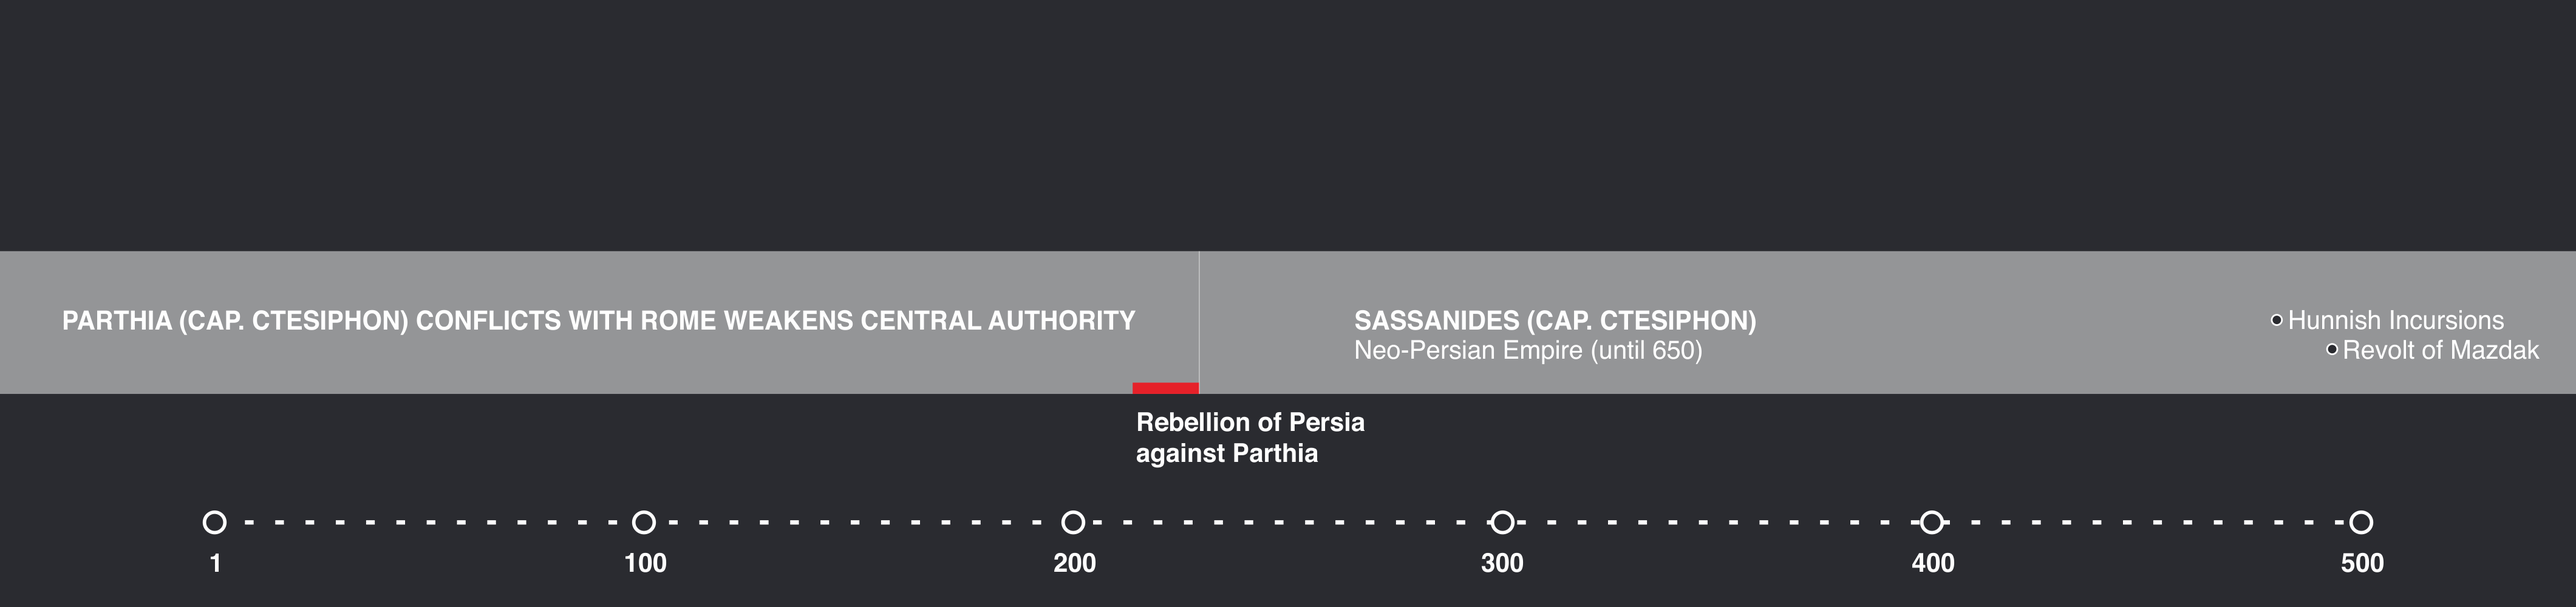
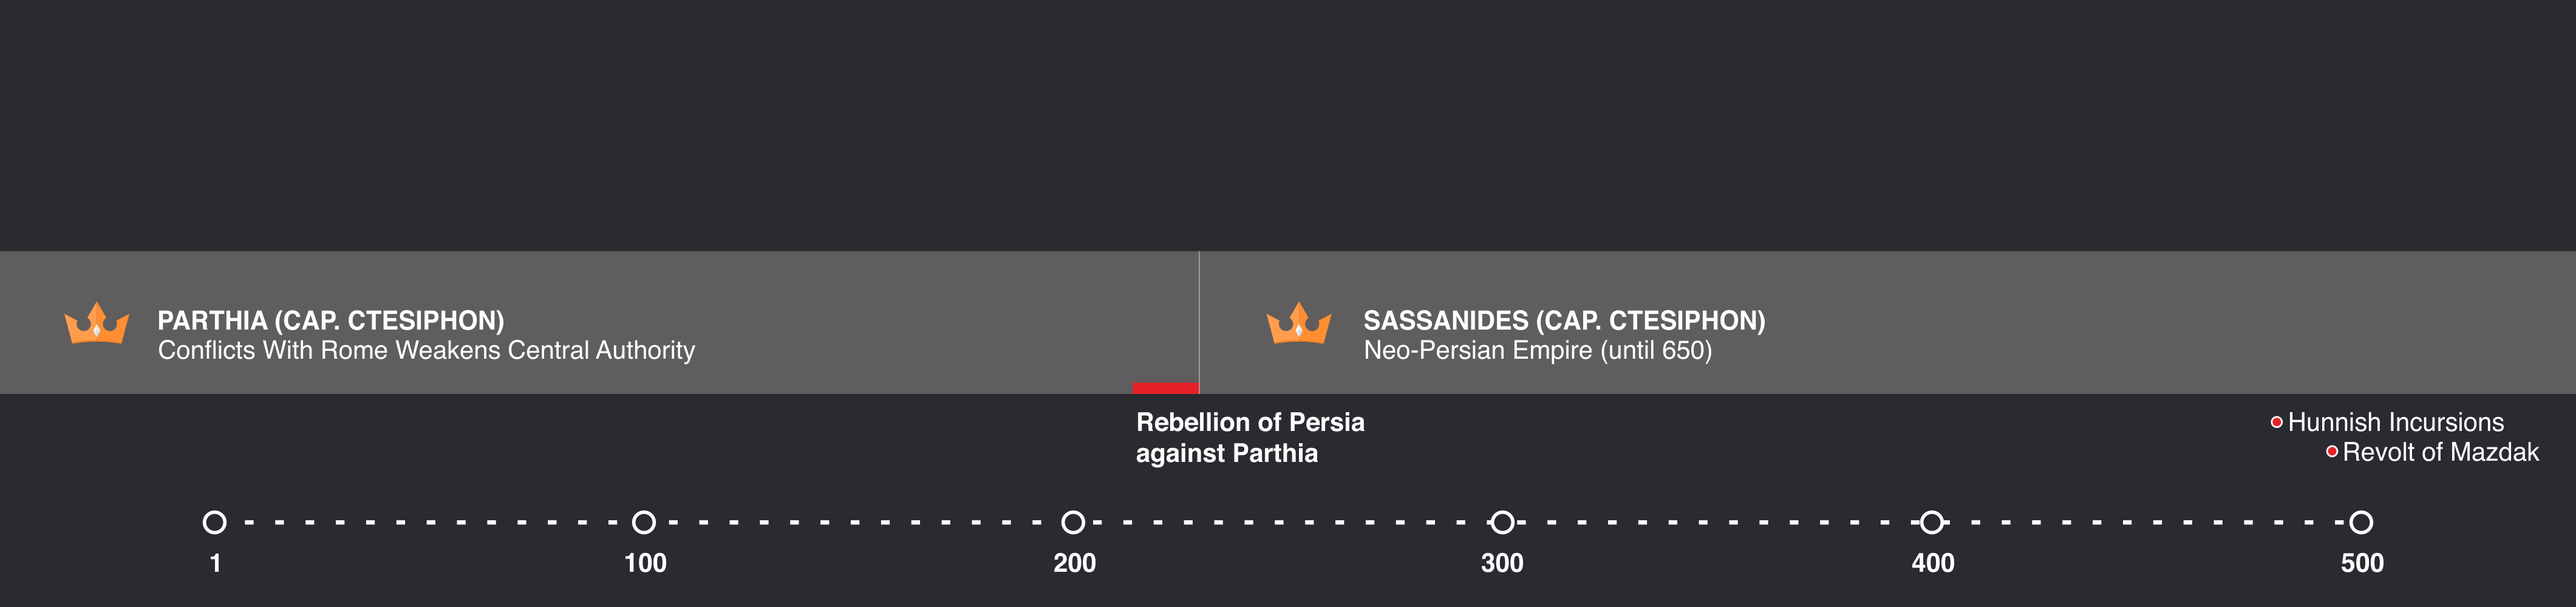
faridiot

Changed region(s): [[0.0, 0.403, 1.0, 0.651], [0.8713, 0.682, 0.9958, 0.775]]

diff --git a/index.html b/index.html
@@ -45,7 +45,7 @@
 					<div class="product__info">
 						<img class="product__image" src="images/1.png" alt="Product 1" />
 						<h3 class="product__title">Europe</h3>
-						<span class="product__year extra highlight">2011</span>
+						<span class="product__year extra highlight">1 - 500 Period</span>
 						<span class="product__region extra highlight">Douro</span>
 						<span class="product__varietal extra highlight">Touriga Nacional</span>
 						<span class="product__alcohol extra highlight">13%</span>
@@ -59,11 +59,11 @@
 					<div class="product__info">
 						<img class="product__image" src="images/2.png" alt="Product 2" />
 						<h3 class="product__title">Midle east</h3>
-						<span class="product__year extra highlight">2013</span>
-						<span class="product__region extra highlight">California</span>
-						<span class="product__varietal extra highlight">Pinot Noir</span>
-						<span class="product__alcohol extra highlight">12%</span>
-						<span class="product__price highlight">$19.90</span>
+						<span class="product__year extra highlight">1 - 500 Period</span>
+						<span class="product__region extra highlight">Parthia</span>
+						<span class="product__varietal extra highlight">Sassanides</span>
+						<span class="product__alcohol extra highlight">Caliphates</span>
+						<span class="product__price highlight"></span>
 						<button class="action action--button action--buy"><i class="fa fa-shopping-cart"></i><span class="action__text">Buy Pro</span></button>
 						<img class="extra highlight" height="75%" id="bottom" src="images/1-500_midleeast.png" />
 					</div>
